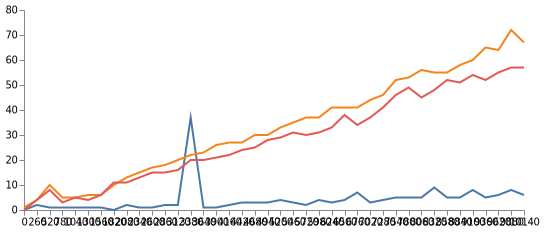
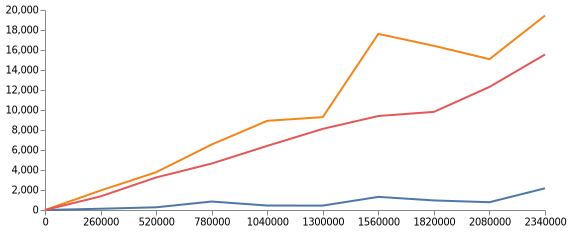
NPM config

diff --git a/__tests__/main.spec.js b/__tests__/main.spec.js
@@ -120,9 +120,9 @@ describe('deepProxy', () => {
     expect(state.c).toEqual(4);
   });
   it.only('Performance test', () => {
-    const loopsCases = Array(40)
+    const loopsCases = Array(10)
       .fill(undefined)
-      .map((el, i) => i * 10);
+      .map((el, i) => i * 10000);
     for (const loops of loopsCases) {
       performanceTester.timer();
       for (const letter of 'qwertyuiopasdfghjklzxcvbnm'.split('').sort()) {

diff --git a/index.js b/index.js
@@ -1,0 +1,1 @@
+export * from './build/src/main';

diff --git a/README.md b/README.md
@@ -20,4 +20,4 @@ This one measures the same thing but without history tracking
 
 ### Use cases
 
-This package is obviously not meant to be used in situations requiring good read and write performance. It has been developed primarily for a GUI object editor and many of the existing features stem directly from this use-case.
+This package is obviously not meant to be used in situations requiring outstanding read and write performance. It has been developed primarily for a GUI object editor and many of the existing features stem directly from this use-case. If you want to perform millions of operations, do not use this package.
